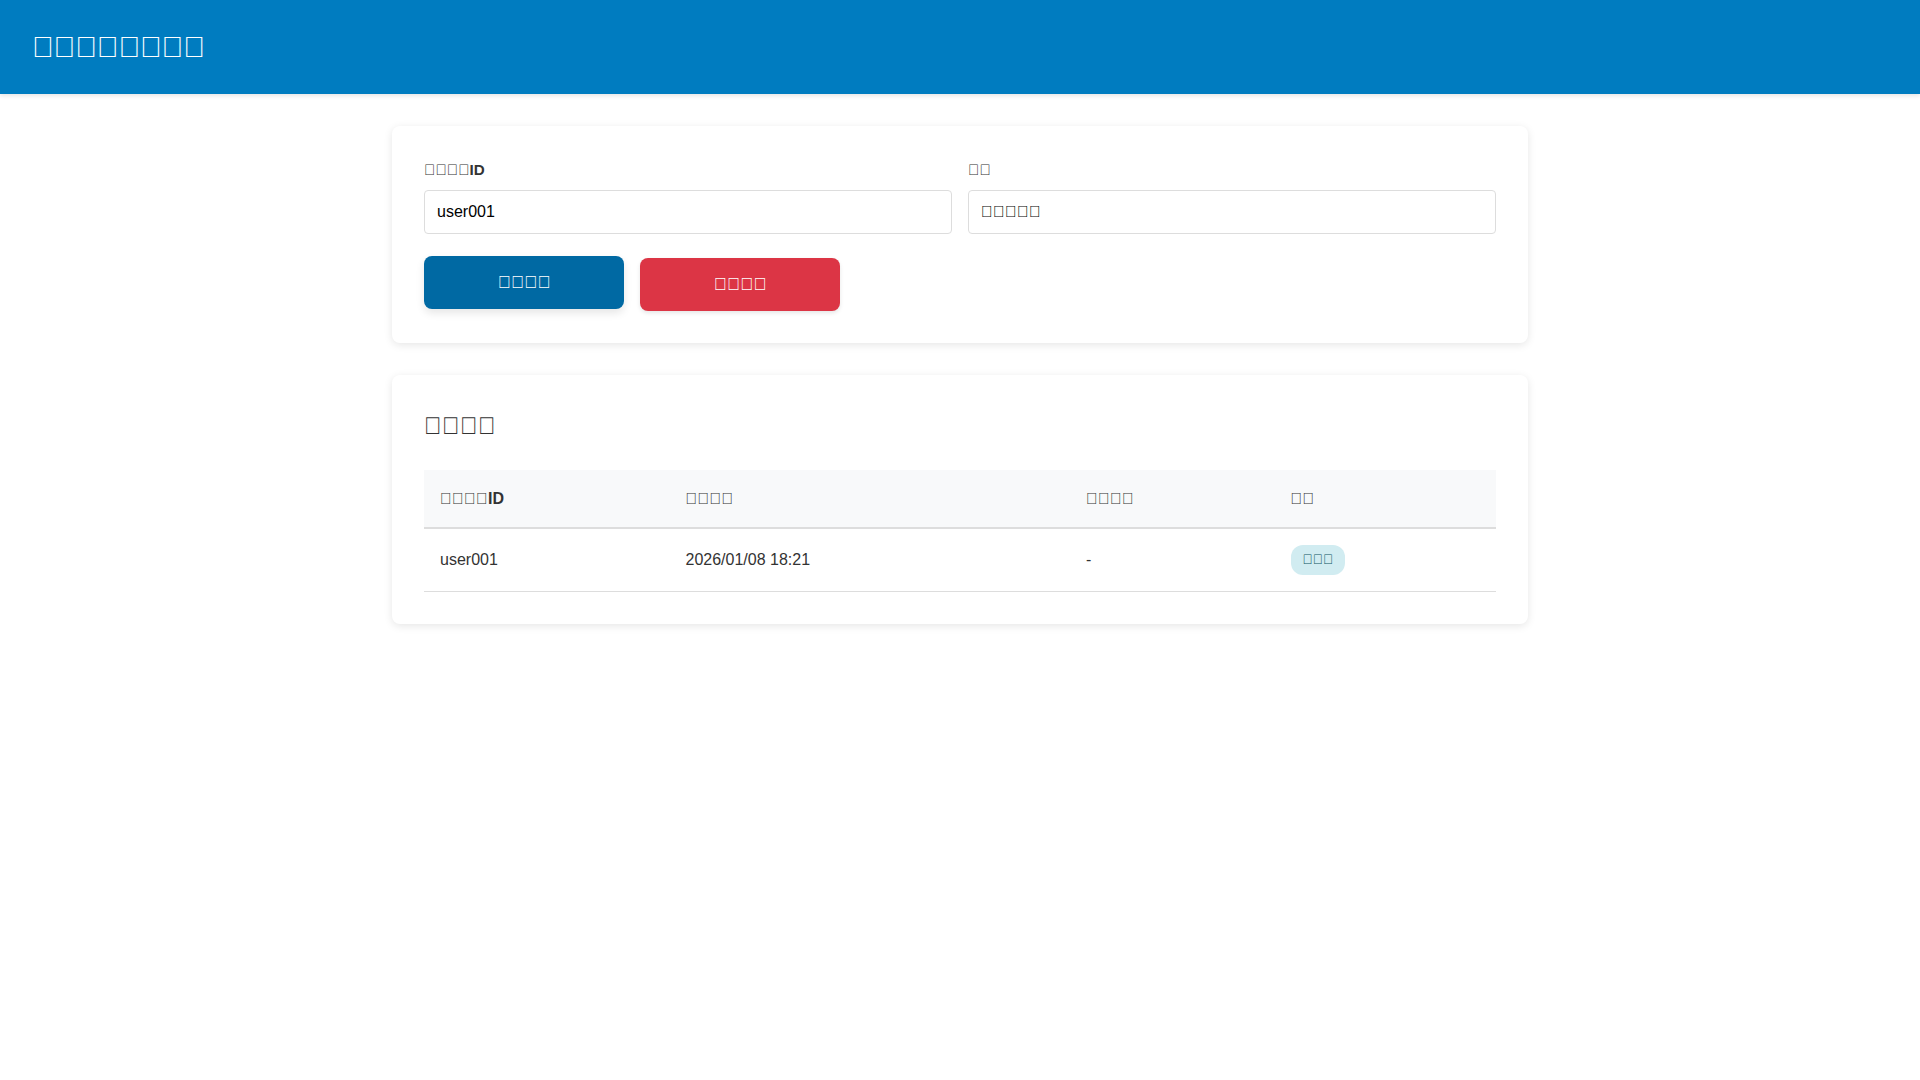
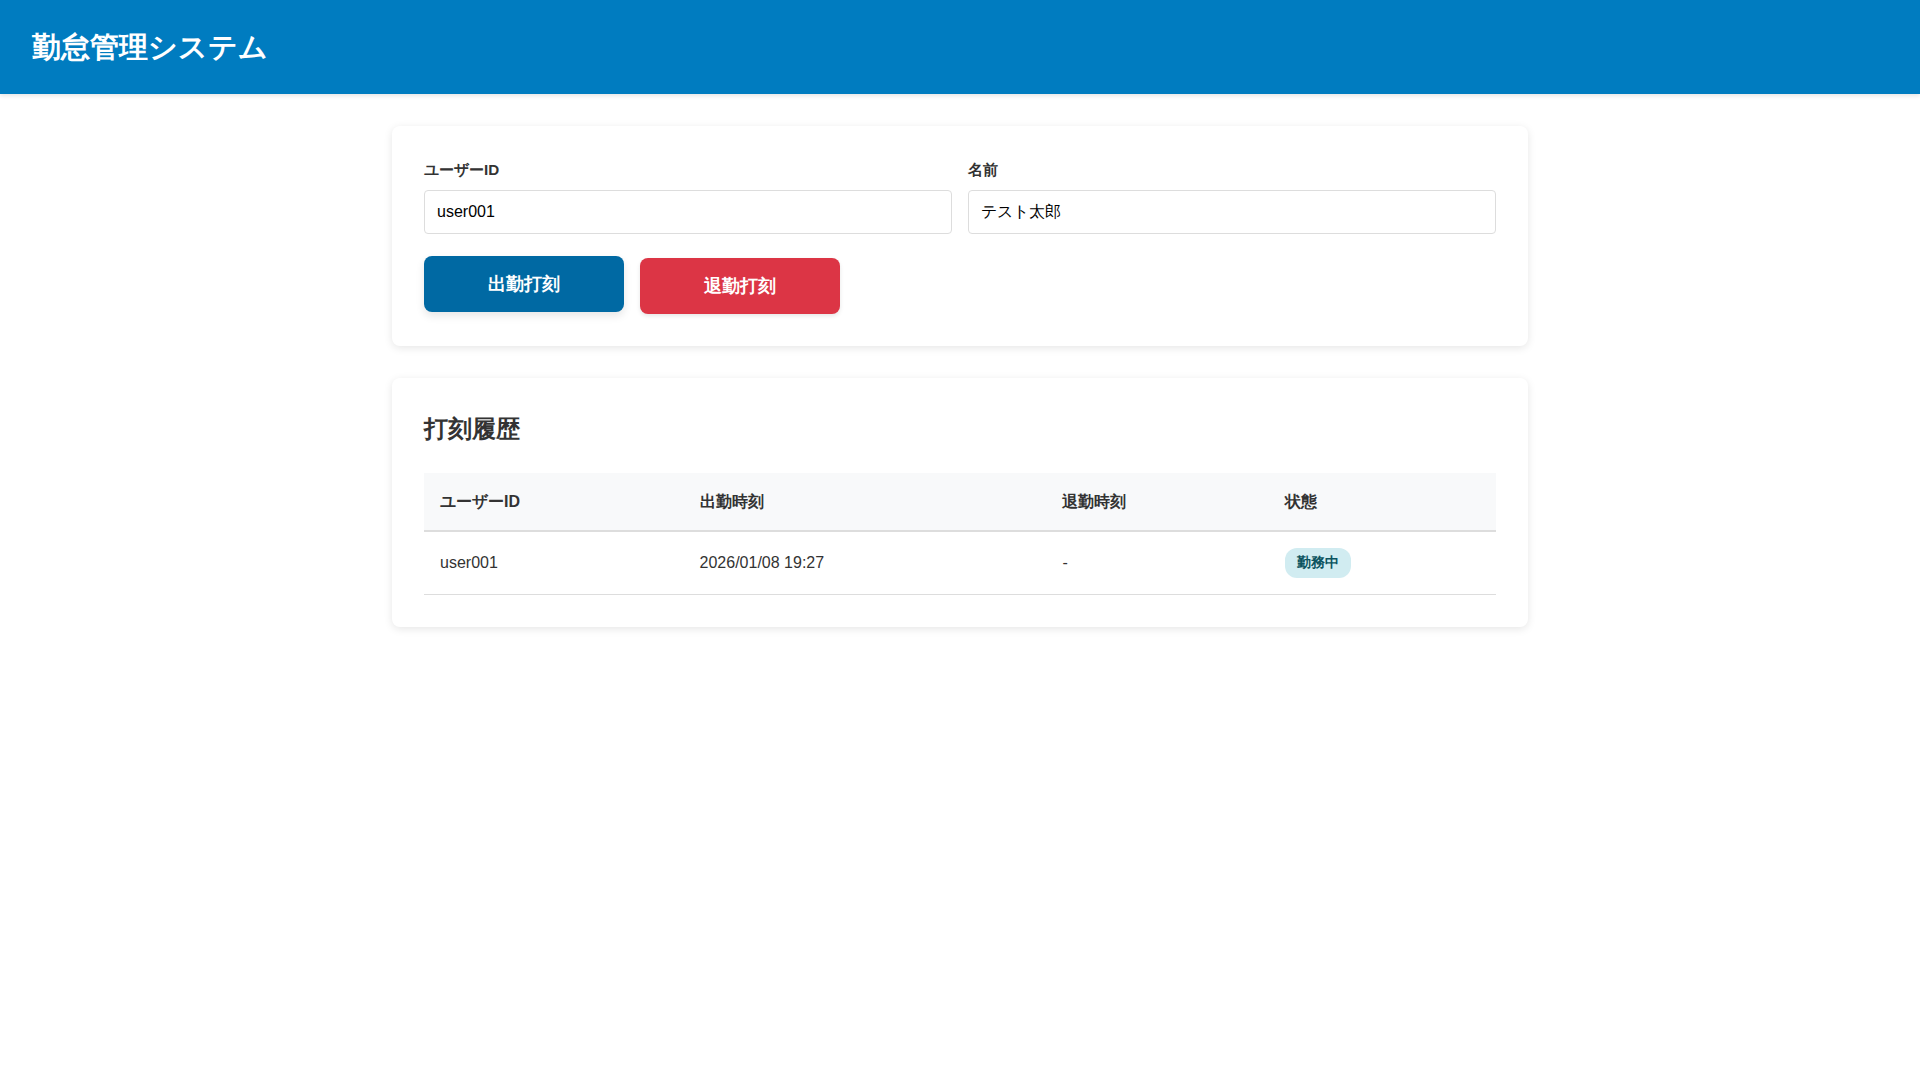
スクリーンショット画像を再取得、デバッグ用HTMLを/tmpに保存

diff --git a/apps/site/scripts/capture-screenshots.ts b/apps/site/scripts/capture-screenshots.ts
@@ -3,6 +3,7 @@
  * 
  * フロントエンド（http://localhost:5173）の3つの画面をキャプチャし、
  * public/images/screenshots/ ディレクトリに保存します。
+ * デバッグ用にHTMLも /tmp に保存します。
  * 
  * 使い方:
  *   npm run screenshot       # 対話的モード（確認あり）
@@ -12,9 +13,11 @@
 import { chromium, Browser, BrowserContext, Page } from 'playwright';
 import { join, dirname } from 'path';
 import { fileURLToPath } from 'url';
+import { writeFileSync } from 'fs';
 
 const __dirname = dirname(fileURLToPath(import.meta.url));
 const OUTPUT_DIR = join(__dirname, '..', 'public', 'images', 'screenshots');
+const TMP_DIR = '/tmp';
 const FRONTEND_URL = 'http://localhost:5173';
 const BACKEND_URL = 'http://localhost:3000';
 
@@ -92,6 +95,12 @@ async function captureScreenshots(): Promise<void> {
     await page.waitForTimeout(2000);
     // フォントが読み込まれるまで待機
     await page.evaluate(() => document.fonts.ready);
+    
+    // HTMLを保存（デバッグ用）
+    const html1 = await page.content();
+    writeFileSync(join(TMP_DIR, '01-initial-screen.html'), html1);
+    console.log('   📄 HTMLを /tmp/01-initial-screen.html に保存しました');
+    
     await page.screenshot({ 
       path: join(OUTPUT_DIR, '01-initial-screen.png'),
       fullPage: false
@@ -109,6 +118,12 @@ async function captureScreenshots(): Promise<void> {
     // レンダリングとアニメーション待機
     await page.waitForTimeout(2000);
     await page.evaluate(() => document.fonts.ready);
+    
+    // HTMLを保存（デバッグ用）
+    const html2 = await page.content();
+    writeFileSync(join(TMP_DIR, '02-after-clock-in.html'), html2);
+    console.log('   📄 HTMLを /tmp/02-after-clock-in.html に保存しました');
+    
     await page.screenshot({ 
       path: join(OUTPUT_DIR, '02-after-clock-in.png'),
       fullPage: false
@@ -122,6 +137,12 @@ async function captureScreenshots(): Promise<void> {
     // レンダリングとアニメーション待機
     await page.waitForTimeout(2000);
     await page.evaluate(() => document.fonts.ready);
+    
+    // HTMLを保存（デバッグ用）
+    const html3 = await page.content();
+    writeFileSync(join(TMP_DIR, '03-after-clock-out.html'), html3);
+    console.log('   📄 HTMLを /tmp/03-after-clock-out.html に保存しました');
+    
     await page.screenshot({ 
       path: join(OUTPUT_DIR, '03-after-clock-out.png'),
       fullPage: false
@@ -129,7 +150,8 @@ async function captureScreenshots(): Promise<void> {
     console.log('   ✅ 03-after-clock-out.png を保存しました');
     
     console.log('\n✅ すべてのスクリーンショットを撮影しました！');
-    console.log(`📁 保存先: ${OUTPUT_DIR}\n`);
+    console.log(`📁 スクリーンショット保存先: ${OUTPUT_DIR}`);
+    console.log(`📄 HTML保存先（デバッグ用）: ${TMP_DIR}\n`);
     
   } catch (error) {
     const err = error as Error;
